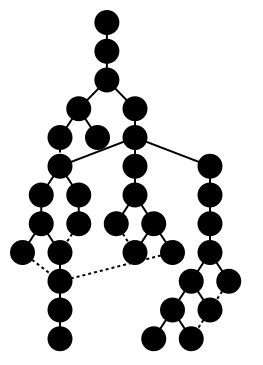
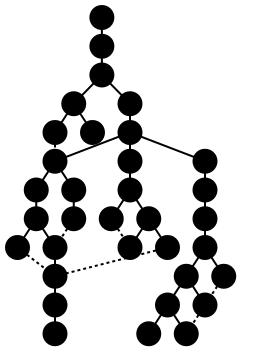
some clean-up

diff --git a/test.py b/test.py
@@ -131,17 +131,36 @@ new_sample_trees['alignment-problem'] = \
                                             Tree("")])])])])])]), ])])])
 
 
-def draw_tree(tree, canvasx = 800, canvasy = 600, marginx = 20., marginy = 10., filename="tree.png"):
-    c = graph.Canvas(canvasx, canvasy)
-    context = c.ctx()
-    context.translate(marginx, marginy)
+def draw_tree(tree, canvasx = None, canvasy = None, marginx = 20., marginy = 10.,
+              filename="./tree.png", p_draw_threads=False):
     layout_tree = layoutTree.LayoutTree(tree)
     boundaries = layoutTree.buchheim(layout_tree)
-    for x in layout_tree:
-        if boundaries[0] < 0:
-            x.x += boundaries[0] * -1
-            # print("displaced", boundaries[0])
-    graph.draw(context, layout_tree, p_draw_threads=False)
+
+    if boundaries[0] < 0:  # the apportion algorithm can displace nodes leftwards into the negative
+        displacement_x = boundaries[0] * -1
+        # print("displaced", displacement_x)
+    else:
+        displacement_x = 0
+
+    if displacement_x:
+        for node in layout_tree:
+            node.x += displacement_x
+    boundaries = (boundaries[0] + displacement_x, boundaries[1] + displacement_x + 1, boundaries[2], boundaries[3] + 1)
+
+    if not canvasx and not canvasy:
+        proportions = graph.default_proportions
+
+        MAX_X = int(boundaries[1] * graph.default_node_radius * proportions[0] + (marginx*2) + 1)
+        MAX_Y = int(boundaries[3] * graph.default_node_radius * proportions[1] + (marginy*2) + 1)
+        # print("MAX_X, MAX_Y", MAX_X, MAX_Y)
+        c = graph.Canvas(MAX_X, MAX_Y)
+    else:
+        c = graph.Canvas(int(canvasx), int(canvasy))
+
+    context = c.ctx()
+    context.translate(marginx, marginy)
+
+    graph.draw(context, layout_tree, p_draw_threads=p_draw_threads)
     c.save(filename)
 
 
@@ -151,17 +170,19 @@ if __name__ == "__main__":
     # t_s = Tree.recursive_print_string(t)
     # t2 = eval(t_s)
 
+    draw_tree(new_sample_trees['alignment-problem'], marginx=0., marginy=0.,
+              filename="./sample_output/alignment-problem.png")
+    draw_tree(new_sample_trees['composite-three'], canvasx=800, canvasy=600, marginx=0., marginy=0.,
+              filename="./sample_output/composite-three.png")
+
     # this bit generates a tree with the directory structure under the folder /structure_test
     # this is an easy way to create tree structures, simply using your OS interface.
-    if False:  # disabled test
-        for _ in range(10):
-            draw_tree(new_sample_trees['alignment-problem'], marginx=0., marginy=0., filename="alignment-problem.png")
-            draw_tree(new_sample_trees['composite-three'], marginx=0., marginy=0., filename="composite-three.png")
-    #exit(0)
-
     os_dir = tree_from_os_dir('./structure_test/', p_width_is_name_length=False)
     print(Tree.recursive_print_string(os_dir))
     draw_tree(os_dir, filename="./sample_output/osdir_test_tree.png")
+
+    layout_tree = layoutTree.LayoutTree(os_dir)
+    print(layout_tree)
 
     print(Tree.recursive_print_string(os_dir[1]))
     print(Tree.recursive_print_string(os_dir['c']))  # covers test case for string accessor (only looks at 1st depth)
@@ -172,34 +193,7 @@ if __name__ == "__main__":
     algorithm = layoutTree.buchheim
 
     for i in sorted(new_sample_trees.keys()):
-        tree_i = new_sample_trees[i]
-        layout_tree = layoutTree.LayoutTree(tree_i)
-        boundaries = algorithm(layout_tree)
-
-        if boundaries[0] < 0:
-            displacement_x = boundaries[0] * -1
-            print("displaced", displacement_x)
-        else:
-            displacement_x = 0
-
-        if displacement_x:
-            for node in layout_tree:
-                node.x += displacement_x
-        boundaries = (boundaries[0] + displacement_x, boundaries[1] + displacement_x + 1, boundaries[2], boundaries[3] + 1)
-
-        proportions = graph.default_proportions
-
-        MAX_X = int(boundaries[1] * graph.default_node_radius * proportions[0]) + 20  # 20 (double the margin 10.)
-        MAX_Y = int(boundaries[3] * graph.default_node_radius * proportions[1]) + 20
-        print("MAX_X, MAX_Y", MAX_X, MAX_Y)
-        # c = graph.Canvas(1800, 800)
-        c = graph.Canvas(MAX_X, MAX_Y)
-        context = c.ctx()
-        #        context.translate(800., 10.)  # leave some margin
-        context.translate(10., 10.)  # leave some margin
-
-        graph.draw(context, layout_tree)
-
-        c.save("./sample_output/saved_new_sample_tree_%s.png" % i)
-        print(i, boundaries, layout_tree, len(tree_i), Tree.recursive_print_string(tree_i))
-
+        draw_tree(new_sample_trees[i], marginx=5, marginy=5,
+                  filename="./sample_output/saved_new_sample_tree_%s.png" % i,
+                  p_draw_threads=True)
+        print(i, len(new_sample_trees[i]), Tree.recursive_print_string(new_sample_trees[i]))

diff --git a/layoutTree.py b/layoutTree.py
@@ -85,7 +85,7 @@ class LayoutTree(object):
 
     def is_leftmost_sibling(self):
         if self.parent:
-            if self == self.parent.child[0]:
+            if self == self.parent.children[0]:
                 return True
         return False
 
@@ -116,10 +116,10 @@ def buchheim(tree):  # alters the tree in place (both first_walk(*) and second_w
 
 def first_walk(v):
     if v.is_leaf():
-        if v.leftmost_sibling:
-            v.x = v.left_brother().x + distance
-        else:
+        if v.is_leftmost_sibling():
             v.x = 0.
+        else:
+            v.x = v.left_brother().x + distance
     else:
         default_ancestor = v.children[0]
         for w in v.children:

diff --git a/README.md b/README.md
@@ -16,14 +16,13 @@ See the paper by Buchheim et al. for a full explanation of the algorithm and pro
 
 This tree is generated programmatically in test.py (see "composite-five"). The dotted lines show the "threads" from the 
 Buchheim algorithm (see explanation in the paper). These dotted lines are optional in the graph.py drawing library. I
-set it to default to true originally:
+set it to default to true:
 
 ```python
     draw(context, algorithm, tree, 
-        node_radius=25, proportions=(1.5, 1.15), 
+        node_radius=default_node_radius, proportions=default_proportions, 
         p_draw_connections=True, p_draw_threads=True)
 ```
-
 
 
 # Requirements
@@ -33,12 +32,8 @@ Packages pycairo and Future.
 
 # Pending
 
-- there seems to be a small alignment/offset problem when proportion parameters are altered (test/fix)
 - Width of node mostly ignored
-- Test against cycles
 - more documentation
-- include conda environment
-
 
 # Ideas for improvement (TODO)
 
